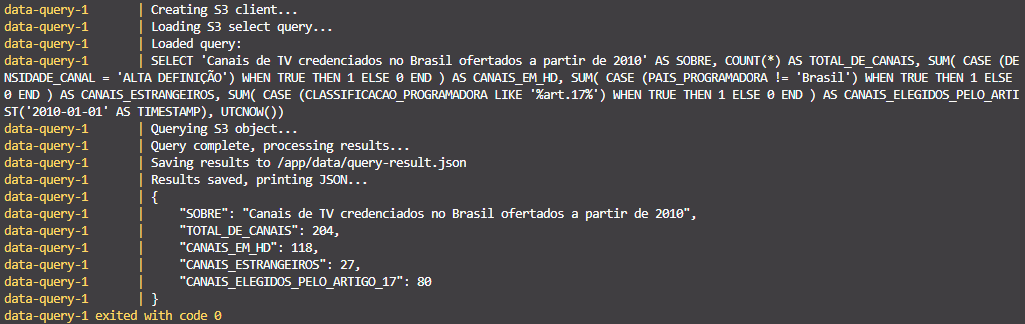
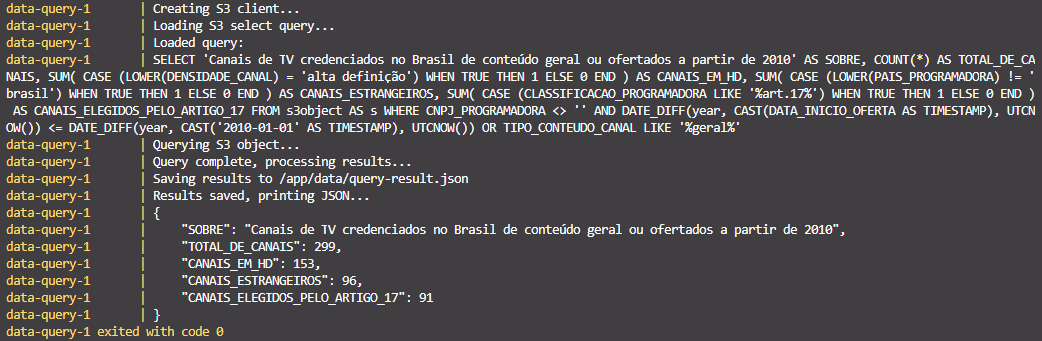
Challenge finalization

Changed region(s): [[0.0, 0.0, 0.999, 0.9877], [0.1561, 0.6481, 0.8117, 0.8951]]

diff --git a/Sprint 5/Desafios/data-query/data_query.py b/Sprint 5/Desafios/data-query/data_query.py
@@ -53,10 +53,10 @@ def main():
             
     print(f"Saving results to {RESULT_JSON}")
     with open(RESULT_JSON, 'w') as file:
-        json.dump(records, file, indent=4)
+        json.dump(records, file, indent=4, ensure_ascii=False)
     
     print("Results saved, printing JSON...")
-    print(json.dumps(records, indent=4))
+    print(json.dumps(records, indent=4, ensure_ascii=False))
 
 if __name__ == '__main__':
     main()
